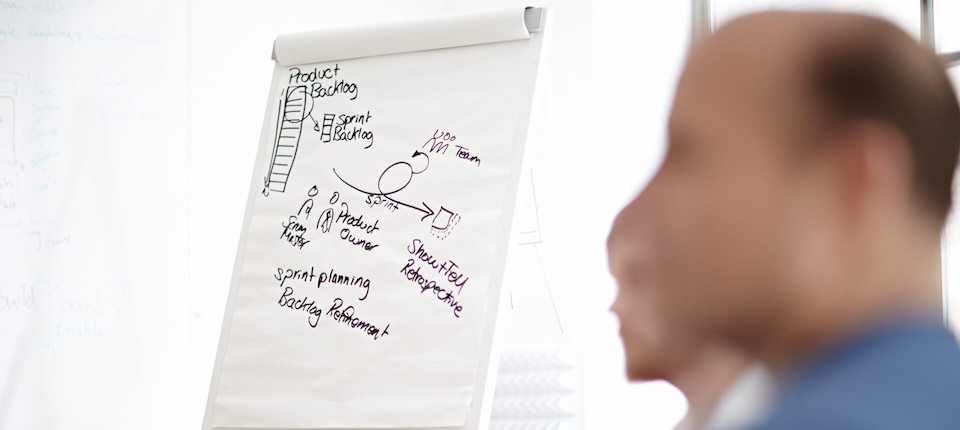
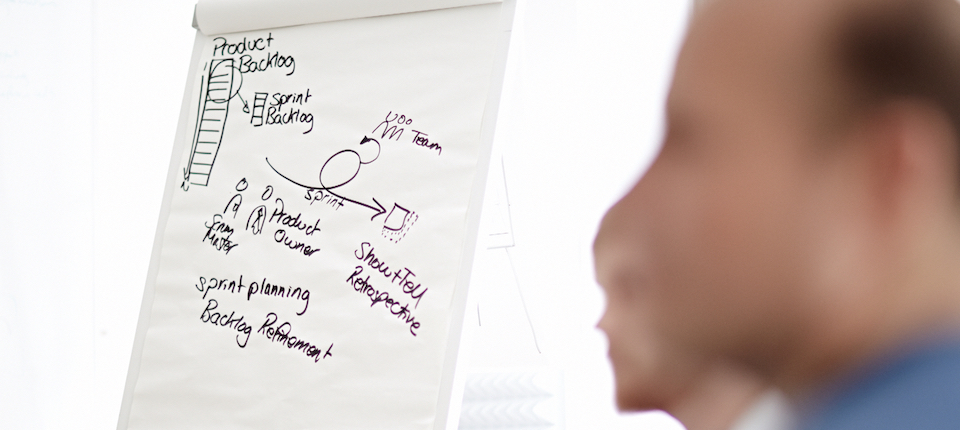
Added zoom effect - services

diff --git a/source/assets/stylesheets/styles/_service.scss b/source/assets/stylesheets/styles/_service.scss
@@ -12,14 +12,40 @@
 .service__title {
   @include responsive-text;
   margin-bottom: 16px;
+  margin-top: 18px;
+}
+
+.service__image-container {
+  position: relative;
+  padding-bottom: 54%;
+  height: 0;
+}
+
+.service__image-wrapper {
+  position: absolute;
+  top: 0;
+  left: 0;
+  width: 100%;
+  height: 100%;
+  overflow: hidden;
 }
 
 .service__image {
-  width: 100%;
+  width: 105%;
+  transition: all .5s ease;
   margin-bottom: 16px;
+
+  &:hover {
+    -webkit-transform: scale(1.4);
+    -ms-transform: scale(1.4);
+    transform: scale(1.4);
+    -webkit-filter: blur(2px);
+    filter: blur(2px);
+  }
 }
 
 .service__paragraph {
+  margin-top: 12px;
   color: $medium-gray;
   font-weight: 300;
   line-height: 1.6;

diff --git a/source/assets/stylesheets/styles/_services.scss b/source/assets/stylesheets/styles/_services.scss
@@ -17,7 +17,7 @@
   padding-top: 40px;
 
   @include breakpoint($tablet-breakpoint) {
-    margin-bottom: 50px;
+    margin-bottom: 30px;
   }
 }
 
